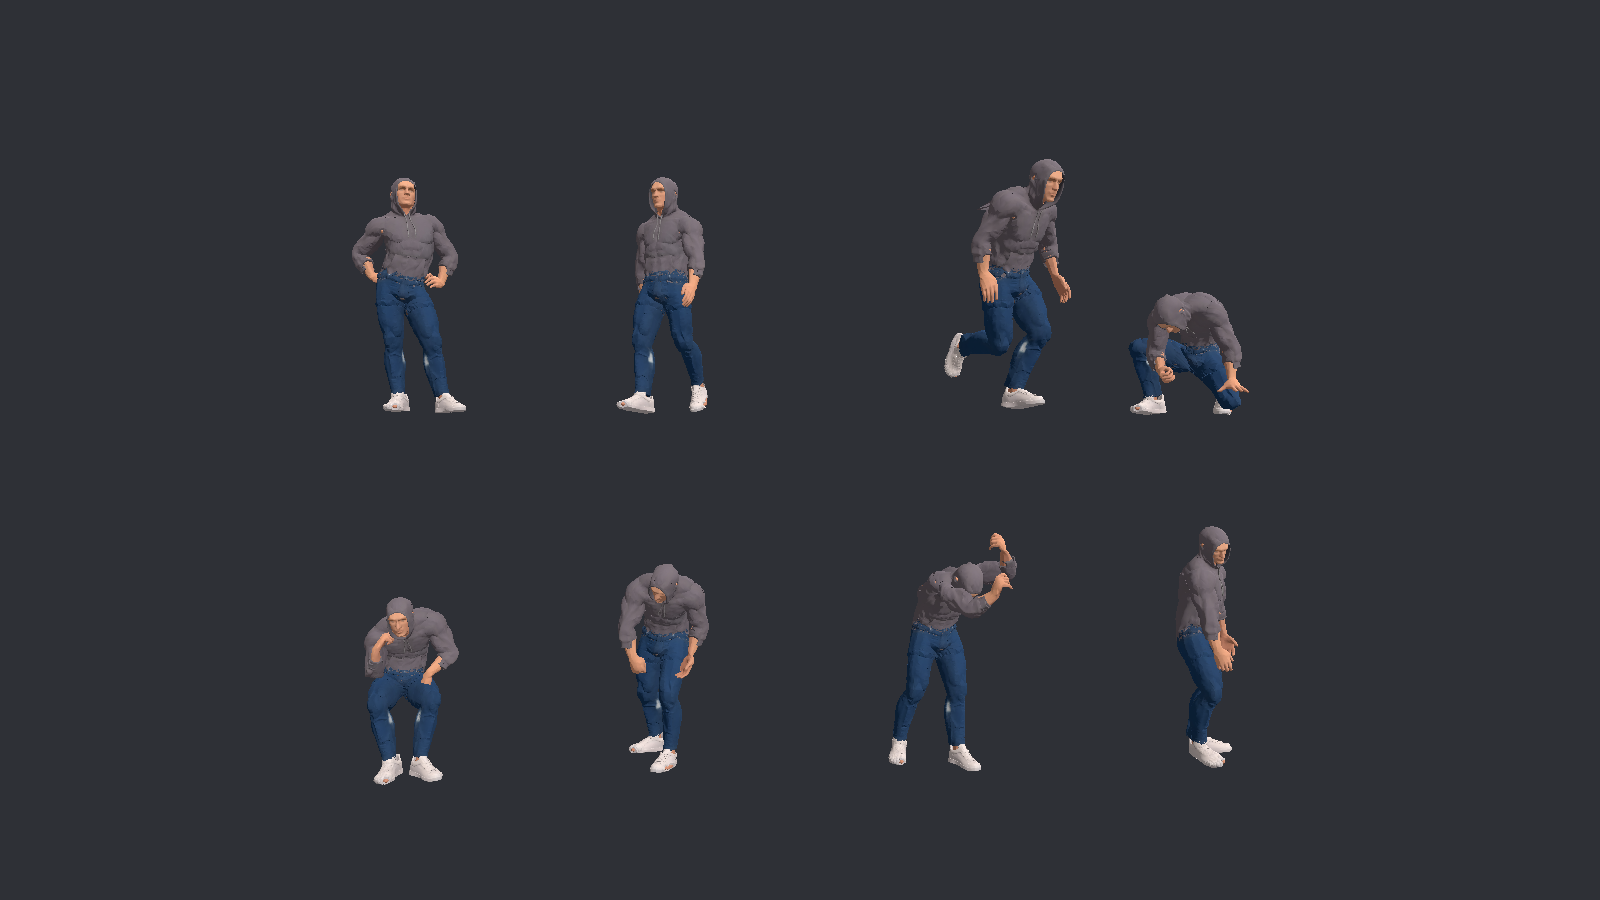
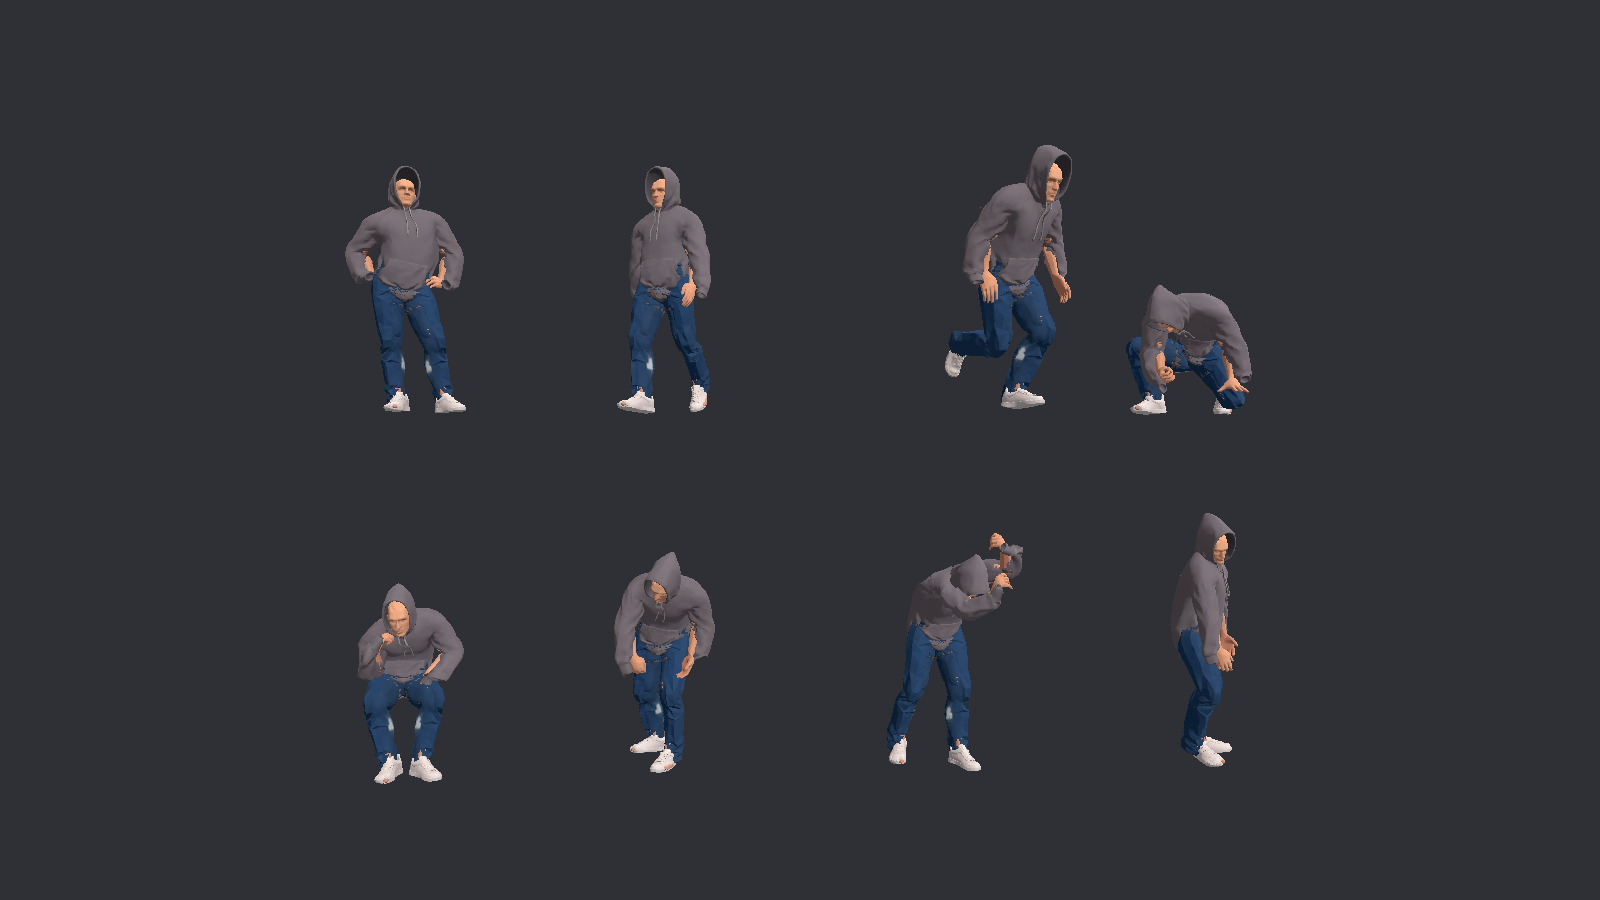
char_dress: свободная одежда вместо облегающей
Claude-Session: https://claude.ai/code/session_01NABwuhXEiU13xV5gzKKe1b

diff --git a/tools/char_dress.py b/tools/char_dress.py
@@ -3,7 +3,9 @@
 
   python3 tools/char_dress.py <тело_с_ригом.glb> <выход.glb> <одежда1.glb> [одежда2.glb ...]
 
-Одежда должна быть в той же позе (T-поза), что и тело. Масштаб/место ищутся сами.
+Одежда — в той же T-позе, что тело. Место и размер ищутся сами (по близости к телу), потом одежда
+раздувается до свободы LOOSE (средний зазор до кожи, см при росте 1,8 м: верх 3, низ 2, обувь 0,5),
+точки под кожей выталкиваются наружу. Тип по имени файла: top_ / bottom_ / shoes_.
 """
 import json,struct,sys
 import numpy as np
@@ -21,7 +23,8 @@ def acc(j,bin_,i):
     return np.frombuffer(bin_,ct,a['count']*k,off).reshape(-1,k)
 # fit clothes onto rigged body, transfer skin weights, write merged GLB
 import numpy as np
-GAP=0.007
+GAP=0.004
+LOOSE={'top_':3.0,'bottom_':2.0,'shoes_':0.5}   # median gap cloth-skin, cm at 1.8 m
 from scipy.spatial import cKDTree
 
 def rot_y(v, deg):
@@ -53,11 +56,17 @@ def fit(cv, tree, bv, kind):
         k=np.sum((q-mq)*(v-mv))/np.sum((v-mv)**2)
         k=np.clip(k,0.97,1.03)
         v=(v-mv)*k+mq
+    c=v.mean(0); k=1.0
+    def med(w):
+        d,i=tree.query(w[::3]); return float(np.median(np.einsum('ij,ij->i',w[::3]-bv[i],BN[i])))
+    want=next((g for p,g in LOOSE.items() if kind.startswith(p)),2.0)/180.0
+    while med((v-c)*k+c)<want and k<1.3: k+=0.005
+    v=(v-c)*k+c
     d,i=tree.query(v)
     off=np.einsum('ij,ij->i',v-bv[i],BN[i])
     need=np.clip(GAP-off,0,None)
     v=v+BN[i]*need[:,None]
-    print('pushed',int((need>0).sum()),'of',len(v))
+    print('inflate',round(k,2),'pushed',int((need>0).sum()),'of',len(v),'gap cm median',round(float(np.median(off))*180,1),'p90',round(float(np.percentile(off,90))*180,1))
     d,_=tree.query(v)
     print(kind,'ang',ang,'s',round(s,3),'ty',round(ty,3),'mean dist',round(float(d.mean()),4),'p95',round(float(np.percentile(d,95)),4))
     return v

diff --git a/docs/LOG.md b/docs/LOG.md
@@ -69,3 +69,4 @@
 | 2026-10-10 | `TRIPO_ANIMATIONS.md`: + работа (9: верстак, шьёт, копает, сажает, несёт ящик, поднимает, лестница, дверь, рация), бой (7: пистолет, ружьё, перезарядка, прицел, удар, смерть, уворот), состояния (5: хромает, болен, перевязывается, испуган, устал) — № 32–52. |
 | 2026-10-10 | `TRIPO_ANIMATIONS.md`: + общение — говорит (`anim_talk`), торгуется (`anim_trade`), № 53–54. |
 | 2026-10-10 | `TRIPO_ANIMATIONS.md`: «Перевязывает себя» переписан (Tripo только садился) — стоя, с повтором движения рук; запасной вариант сидя «с первого кадра». |
+- 2026-10-10: char_dress.py — одежда больше не облегает: раздувается до свободы (верх 3 см, низ 2 см). Превью обновлено.
